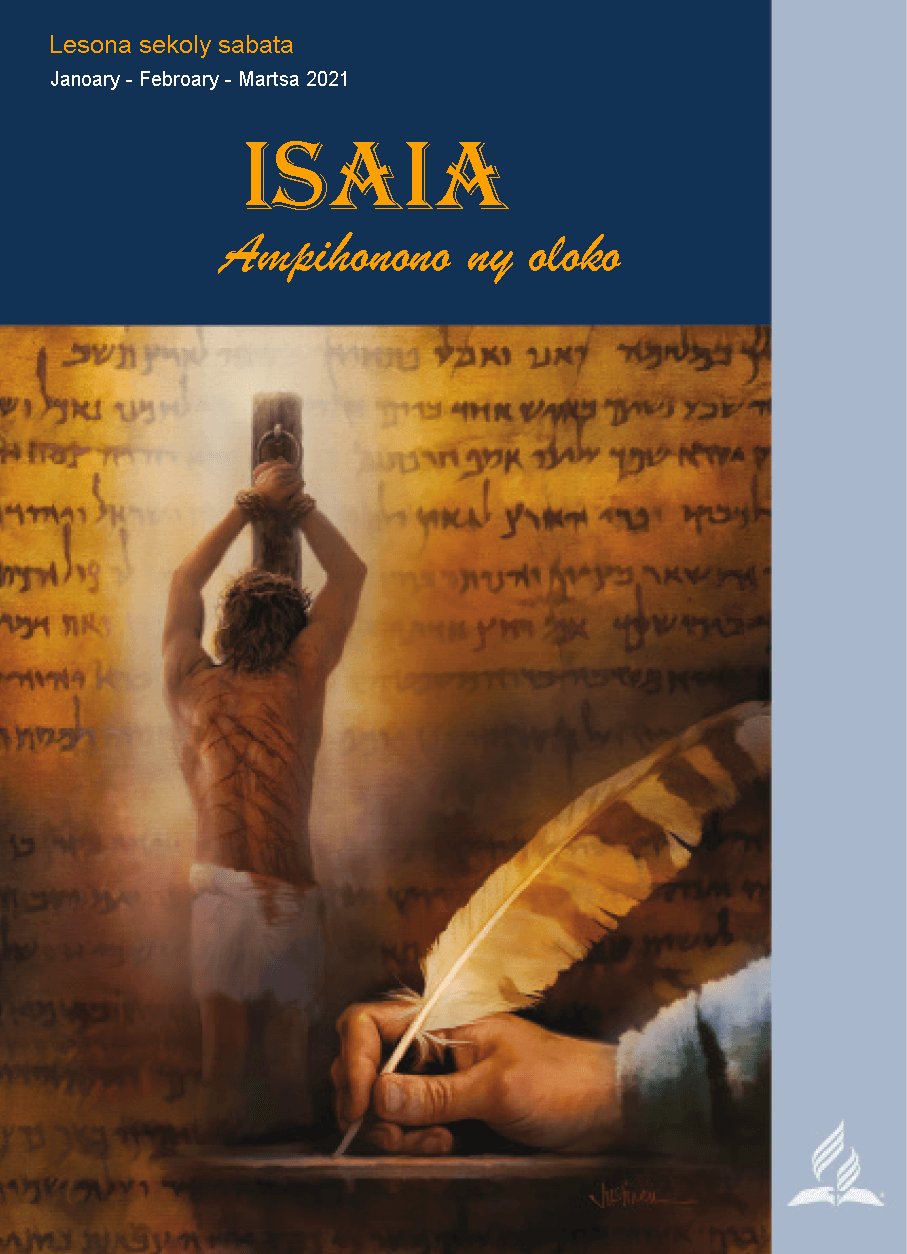
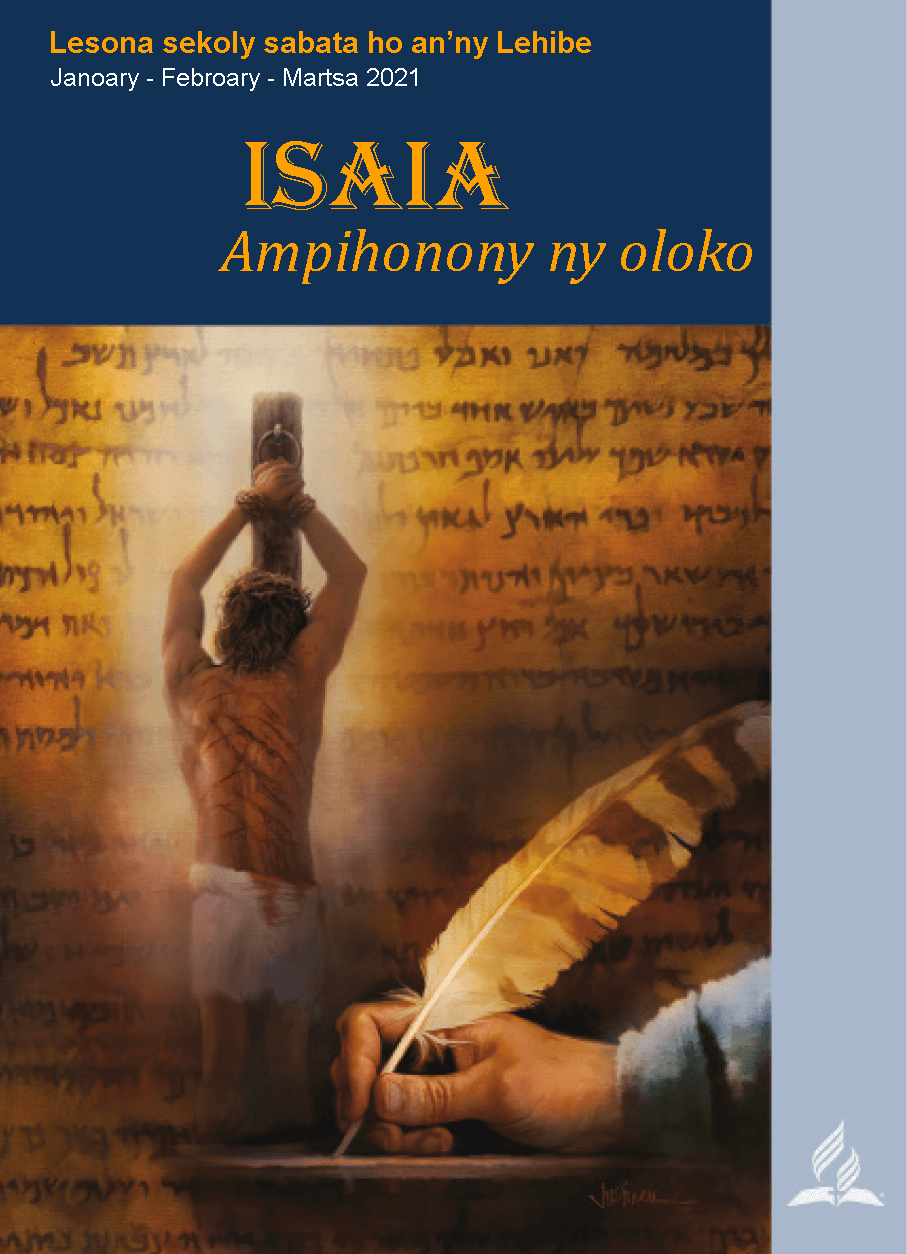
Add files in mg\2021-01\12
Add lesson 12 in mg\2021-01
correct cover in mg\2021-01

Changed region(s): [[0.0617, 0.0311, 0.6483, 0.0933], [0.247, 0.1866, 0.8335, 0.2177]]

diff --git a/src/mg/2021-01/12/03.md b/src/mg/2021-01/12/03.md
@@ -1,7 +1,20 @@
 ---
-title:  Lesona
-date:   15/03/2021
+title: "Iza no havela heloka?(Isa. 59:15-21)"
+date: 15/03/2021
 ---
 
-### <center>Eo am-panatanterahana ity lesona ity izahay.</center>
-<center>Mandrasa kely azafady.</center>
+Ny Isa. 59 dia mampiseho sary manaitra mikasika ity olan'ny fahotana ity. Soa ihany fa mampiseho fanantenana ny amin'ny fanavotana koa ny Baiboly.
+
+Eto am-panombohana dia izao no fanontaniana apetraka voalohany: Firy amintsika no efa nanota? Tsy mampisalasala izay ambaran'ny Baiboly: Isika rehetra dia efa nanota avokoa. Noho izany, ny fanavotana dia tsy mba azo ankinina amin'ny hoe: izay tsy nanota ihany; fa tsy maintsy ny famelan-keloka no fototra iorenany (Jer. 31:34). Miombon-kevitra aminizany i Paoly. Samy efa nanota avokoa izy rehetra (Rôm. 3:9-20, 23); koa dia tsy misy anavahana azy raha ny amin'io lafiny io (Rôm. 3:22). Ireo izay nohamarinina dia lazaina fa marina, noho izy nandray fotsiny flay fanomezana tamin'ny finoana, dia ny fahamarinan'Andriamanitra izay omena amin'ny alalan'ny sorona nataon'i Kristy.
+
+`Vakio ny Rom. 3:21-24. Inona no ambaran'ireo andininy ireo mikasika ny fomba amonjena antsika? Inona ny fanantenana omen'izany antsika amin'ny fitsarana?`
+
+Mihevitra ny ankamaroan'ny olona fa ny foto-dresaka ao amin'ny fitsarana dia ny hoe: Iza no nanota? Kanefa fanontaniana tsy mila apetraka akory izany satria samy efa nanota ny olona tsirairay. Ity kosa no tena fanontaniana: Iza no havela heloka? Marina Andriamanitra rehefa manamarina « izay manana finoana an'i Jesosy » (Rôm. 3:26). Ny fanapahan-kevitra amin'ny fitsarana dia mifototra amin'ny hoe: Iza no nandray famelan-keloka ary mbola manohy mandray izany famelan-keloka izany amin'ny alalan'ny finoana an'i Jesôsy?
+
+Marina ihany fa tsaraina amin'ny alalan'ny asa ataontsikaisika, kanefa tsy ao anatinIzany ny hevitra hoe mahavonjy antsika ny asa. Raha izany mantsy dia foana ny finoana (Rom. 4:14). Ny asantsika kosa anefa no mampiseho raha tena novonjena tokoa isika na tsia (Jak.2:18).
+
+`Nahoana no tsy mahavonjy antsika ny asa na ankehitriny na amin'ny fitsarana? Jereo ny Rom. 3:20, 23.`
+
+Tsy mahavotra na iza na iza intsony na ny asa tsara, na ny fankatoavana ny lalana, fa efa tara loatra izany. Ny zava-kendren'ny lalana ao anatin'ny tontolo iray feno fahotana dia tsy ny hamonjy tsy akory fa ny hampiseho ny ota. Fa « ny finoana izay miasa amin'ny fitiavana » (Gal. 5:6), dia ilay fitiavana izay nampidinin'ny Fanahin'Andriamanitra ho ao am-po (Rom. 5:5), no mampiseho fa manana ny finoana velona an'i Jesôsy ny olona iray (Jereo koa ny Jak. 2:26).
+
+Ny asa dia fanehoana ety ivelany; fisehoan'ny finoana mahavonjy ananan'ny olombelona izany. Araka izany ary, ny fanandramana Kristianina marina dia fanandramana izay anehoano ny finoana amin'ny alalan'ny fanoloran-tena ho an'ny Tompo isan'andro ka miseho amin'ny fankatoavana ny Ialàna izany. Eo amin'ny fitsarana dia ampiasain'Andriamanitra ny asa ho porofo eo anatrehan'ireo voariny izay tsy mba afaka mamaly ny ao an'eritreritra tahaka Azy. Kanefa ho an'ny olona izay niova fo, ny asany taorian'ny fiovam-pony, rehefa nampaherezin'i Kristy sy ny Fanahy Masina izy, dia manan-danja tokoa eo amin'ny fitsarana. Ilay fiainana feno ota talohan'ny niovana fo dia efa voasasa sy voafafa tamin'ny alalan'ny ran'ny Zanak'ondry (Jereo ny Rom. 6).

diff --git a/src/mg/2021-01/12/06.md b/src/mg/2021-01/12/06.md
@@ -1,7 +1,17 @@
 ---
-title:  Lesona
+title:  "Andro famalian'Andriamanitsika (Isa. 61:2)"
 date:   18/03/2021
 ---
 
-### <center>Eo am-panatanterahana ity lesona ity izahay.</center>
-<center>Mandrasa kely azafady.</center>
+`Ao anatin'ireo vaovao mahafaly rehetra ireo, nahoana ny Mesia, araka izay hifa ao amin'ny Isa. 61, no mitory ny famalian'Andriamanitra? Oviana io faminaniana io no tanteraka?`
+
+Fony Izy tao Nazareta dia namaky ny Isa. 61 i Jesôsy , Ilay Mesia, mandra-pahatonga amin'ilay hoe: « Hitory taona ankasitrahan'i Jehovah » (Isa. 61:2; Lio 4:19). Dia niato Izy ka nanao hoe: « Andro-any no efa tanteraka eto anatrehanareo izany soratra izany » (Lio. 4:21). Koa ninian'i Jesôsy nodinganina manokana mihitsy ny famakiana ny andalana manaraka ao amin'io andininy io ihany manao hoe: « andro famalian'Andriamanitsika » - Isa. 61:2. Raha vao nanomboka ny asa fitoriany teny soa mahafaly ho an'ny malahelo, sy fandefasana ny mpifatotra ho afaka amin'ny famatoran'i Satana dia tsy mbola tonga kosa ny andro famaliana. Ao amin'ny Mat. 24 (ampitahao amin'ny Mar. 13; Lio. 21), dia nilaza mialoha tamin'ny mpianany Izy fa ny fitsaran'Andriamanitra dia mbola amin'ny hoavy.
+Ao amin'ny Isa. 61 tokoa mantsy ny andro farnalian'i Jehtivah, ilay « andron'i Jehovah, izay sady lehibe no mahatsiravina » (Joe. 3:4), dia ho tonga rehefa hiverina indray i Kristy hanafaka ny planeta Tany amin'ny tsy fahamarinana, amin'ny alalan'ny fandreseny ireo fahavalony sy ny fanafahany ireo vahoaka sisa ampahoriana (Apak. 19; ampitahao amin'ny Dan. 2:44,45). Koa raha nitory ny fanombohan'ny "taona ankasitrahan'i Jehôvah" izany i Kristy, dia amin'ny fiaviany fanindroany no ho faratampon'ny fahatanterahanIzany.
+
+`Ahoana no ampifandraisanao ny maha-fitiavana an'Andriamanitra amin'ny nnaha-Andriamanitry ny famaliana Azy koa? Tsy mety hiaraka ve ireo hevitra ireo? Araka ny fahazoanao azy, mbola fisehoan'io fitiavana io ihany ve ny famaliany? Raha eny, amin'ny fomba ahoana? Hazavao.`
+
+Na dia niteny tamintsika aza i Jesôsy  mba hanolotra koa ny takolatsika anankiray (Mat. 5:39), dia milaza mazava koa Izy any amin'ny andininy hafa fa hotanterahina tokoa ny fitsarana sy ny famaliana (Mat. 8:12). Na dia manambara aza i Paoly hoe: « Aza mamaly ratsy ny ratsy » (1 Tes. 5:15), dia lazainy koa fa rehefa hiseho avy any an-danitra ny Tompo, miaraka amin'ny afo midedadeda, dia « hamaly izay tsy mahalala an'Andriamanitra » Izy (2 Tes. 1:8).
+
+Mazava loatra, ny maha-samy hafa azy dia izao: amin'ny maha-Andriamanitra feno fahendrena sy famindrampo tsy manam-petra Azy, dia ara-drariny tanteraka no hanatanterahany ny fitsarana sy ny famaliana. Ny fitsarana sy ny famalian'olombelona dia miaraka amin'ireo kilema sy fahalemena ary tsy fahatanterahana amin'ny maha-olombelona azy. Fa ny fitsaran'Andriamanitra kosa dia tsy isalasalana fa tsy hisy ireo tsy fahatanterahana ireo velively.
+
+`Iza amin'ireto toe-javatra ireto no mety hahatonga anao haniry ny hamaliana ny olona iray noho ny ratsy nataony? (1) Olona iray nandratra olona iray hafa tsy tianao, sa (2) olona iray nandratra ny namanao tianao tokoa? Ahoana no anampian'izany anao hahatakatra tsara kokoa ny fifandraisana misy eo amin'ny fitiavan'Andriamanitra antsika sy ny fampitandremany ny amin'ny famaliana?`

diff --git a/src/mg/2021-01/12/04.md b/src/mg/2021-01/12/04.md
@@ -1,7 +1,22 @@
 ---
-title:  Lesona
-date:   16/03/2021
+title: "Antso ho an'izao tontolo izao (Isa. 60:1,2)"
+date: 16/03/2021
 ---
 
-### <center>Eo am-panatanterahana ity lesona ity izahay.</center>
-<center>Mandrasa kely azafady.</center>
+`Inona no resahina ao amin'ny Isa. 60:1,2 ? Foto-kevitra Inona no hitanao eto, izay hita manerana ny Baiboly manontolo? Fanantenana Inona no atolony?`
+
+Mamariparitra ny fanafahan'Andriamanitra ny olony aorian'ny fahababoana ireo andininy roa ireo, izay aseho amin'ny sary an'ohatra ahitana an'Andriamanitra mamorona fahazavana avy ao anatin'ny haizina ka anondroany sahady ny fahatanterahan'ny famonjena faratampony amin'ny alalan'i Kristy.
+
+`Ao amin'ny and. 3, fahazavan'iza no anatonan'ireo firenena sy mpanjaka?`
+
+Arnin'ny teny hebreo, io olona io dia tokana sady vehivavy (jereo koa ny Isa. 60:1,2). Tsy maintsy ho i "Ziona" io voalaza io, izay nomena endrika vehivavy, voaresaka any amin'ny faramparan'ny toko teo aloha (Isa. 59:20). Koa ny olona rehetra eto ambonin'ny tany izany, izay rakotra haizina, dia hankany Ziona. Ho voasinton'ny fahazavan'ny voninahitr'Andriamanitra izay miposaka eo amin'i Ziona izy ireo (Isa. 60:2). « Asaina miditra ao amin'ilay fahazavana izay azy i Ziona, ary avy eo hijery sy hanao zavatra ho an'ireo firenena izay avy manatona io fahazavana io. » - J. Alec Motyer, The Prophecy of Isaiah: An Introduction and Commentary, t. 494. Mariho fa na dia i Jerosalema ihany aza no Ziona, dia olona no tena ifantohan'ny resaka eto fa tsy dia ny toerana na ny faritry ny tanana loatra.
+
+Ny Isa. 60 sisa rehetra dia famoaboasana ilay lohahevitra nampidirin'ny and. 1-3. Voasarika ho eo amin'i Jerosalema, izay voatahy manokana noho ny fanatrehan'Andriamanitra be voninahitra, ny olona rehetra eran'izao tontolo izao.
+
+`Manao ahoana io faminaniana io raha mitaha amin'ilay teny fikasan'ny fanekena natao famin'i Abrahama? Gen. 12:2,3. Tsy zavatra iray ihany ve no ambaran'ireo?`
+
+Izao tontolo izao no nokendren'Andriamanitra raha nifidy Abrahama sy ny taranany Izy: ho voatahy avokoa ny fianakaviana rehetra eto ambonin'ny tany amin'ny alalan'i Abrahama (Gen. 12:3; Gen. 18:18; Gen. 22:18). Ny fanekena nataon'Andriamanitra tamin'i Abrahama ary izany dia natao indrindra ho fanekena amin'ny taranak'olombelona rehetra amin'ny alalan'i Abrahama. Izy sy ny taranany no nataon'Andriamanitra fantsona ho fanambarana ny hafany amin'izao tontolo izao.
+
+Nikatsaka izay hamerenana ny olony ho amin'ilay anjarany fahizay, mahafoaka izao tontolo izao, i Isaia. Amin'ny maha-solontenan'llay Andriamanitra marina azy ireo dia tsy tompon'andraikitra ny amin'ny tenany fotsiny izy fa tompon'andraikitra ny amin'izao tontolo izao koa. Natao handray tsara ireo vahiny izay mikatsaka an'Andriamanitra izy ireo (jereo koa ny Isa. 56:3-8), fa ny tempoliny dia « hatao hoe trano fivavahana ho an'ny firenena rehetra » -Isa. 56:7.
+
+`Ao anatin'io tontolon-kevitra io, ahoana no fahazoanao ny andraikitry ny Fiangonana Advantista Mitandrina ny Andro Fahafito, na ny marimarina kokoa, ny andraikitrao manokana ao anatin'izany fiangonana izany?`

diff --git a/src/mg/2021-01/12/05.md b/src/mg/2021-01/12/05.md
@@ -1,7 +1,14 @@
 ---
-title:  Lesona
-date:   17/03/2021
+title: "Taona ankasitrahan'i Jehôvah (Isa. 61:2)"
+date: 17/03/2021
 ---
 
-### <center>Eo am-panatanterahana ity lesona ity izahay.</center>
-<center>Mandrasa kely azafady.</center>
+`Iza no miteny ao amin'ny Isa. 61:1?`
+
+Ny Fanahin'Andriamanitra dia ao amin'ity olona voahosotra ity, izay midika fa izy dia Mesia, na Izy no Mesia izay natao « Hitory teny soa mahafaly amin'ny mpandefitra, sy hahasitrana ny torotoro fo, ary hitory fanafahana amin'ny babo » (Isa. 61:1). Mampahatsiahy an'iza izany? Ampitahao amin'ny Isa. 42:1-7, izay milazalaza ny amin'llay Mpanompon'Andriamanitra amin'ny teny toy izany koa.
+
+Miresaka "taona ankasitrahan'i Jehovah" ny Isa. 61:2. Ilay Mesia izay voahosotra ho mpanjaka taranak'i Davida, sady Mpanafaka dia nitory taona manokana izay ankasitrahan'Andriamanitra rehefa nitory fanafahana. Ampitahao amin'ny Lev. 25:10, izay andidian'Andriamanitra ny Isiraelita hitory fahafahana amin'ny taona masina fahadimampolo: "Jobily ho anareo izany, ka samia mody any amin'ny taninareo avy hianareo sy any amin'ny mpianakavinareo avy". Midika izany fa ireo olona izay voatery nivarotra ny tanindrazany na tonga andevo mba tsy ho faty ao anatin'ny fotoan-tsarotra (and. 25-55) dia hitaky indray ny tanin'izy ireo sy ny fahafahany. Nanomboka tamin'ny fitsofana anjomara tamin'ny Andro Fanavotana mantsy ny taon-jobily (and. 9), efa noresahintsika izany tany aloha, mifandraika amin'ny Isa. 58.
+
+Na dia karazana taon-jobily aza ilay "taona ankasitrahan'i Jehovah" ao amin'ny Isa. 61:2, dia tsy fitandremana na fanarahana izay voalaza ao amin'ny Lev. 25 fotsiny tsy akory izany. Ny Mesia, ny Mpanjaka no mitory izany rehefa maneho ny Tenany amin'ny alalan'ny asa fanafahana sy fampodiana amin'ny laoniny Izy. Mitovitovy amin'izay nataon'ireo mpanjaka mesôpôtamianina fahiny izany, izay nanao asa soa ho an'ny mpiara-belona sy nitory famotsorana trosa nandritra ireo taona voalohandohany nanjakan'izy ireo. Mihoatra lavitra noho izay voafaritra ao amin'ny lalàn'ny Lev. 25 ny asan'ny Mesia. Tsy mitory yanafahana amin'ny babo" fotsiny Izy fa manasitrana ny torotoro fo ihany koa, mampionona ny malahelo, ary manatanteraka ny famerenana amin'ny laoniny ny fiainan'izy ireo (Isa. 61:1-11). Fanampin'izany, ankoatra ny "taona ankasitrahan'i Jehôvah" dia milaza "andro famalian'Andriamanitra" koa Izy (and. 2).
+
+`Oviana no nahatanteraka io faminanian'i Isaia io? Lio. 4:16-21. Ahoana no nanatanterahan'ny asan'i Jesôsy  azy? Apetraho amin'ny tenanao koa izao fanontaniana manan-danja izao: marina fa tsy i Jesôsy  isika, saingy natao ho solontenany eto amin'izao tontolo izao kosa. Inona no ataon'ny Mesia, araka ny voalaza ao amin'ny Isa. 61:1-3, izay tokony hataontsika koa na voafetra aza ny fahaizantsika sy ny fahafaha-manaontsika? Mitanisa fomba tsotra vitsivitsy ahazoantsika manatanteraka ireo zavatra ireo`

diff --git a/src/mg/2021-01/12/07.md b/src/mg/2021-01/12/07.md
@@ -1,7 +1,17 @@
 ---
-title:  Lesona
+title: Fianarana fanampiny
 date:   19/03/2021
 ---
 
-### <center>Eo am-panatanterahana ity lesona ity izahay.</center>
-<center>Mandrasa kely azafady.</center>
+**Vakio ny PM, tt. 387-390; sy IFM, toko 24.**
+
+« Nijoro teo anoloan'ny vahoaka, toy ny mpanazava velona ireo faminaniana mikasika ny Tenany, i Jesôsy. Nohazavainy ny teny vao novakiny, dia ny amin'ny Mesia izay hanampy ny sahirana, hanafaka ny mpifatotra, hanasitrana ny tra-pahoriana, hamerina ny jamba hahita indray, ary hanambara ny fahazavan'ny fahamarinana amin'izao tontolo izao. Nampangitakitaka ny mpihaino tamin'ny hery izay tsy mbola tsapany mihitsy teo aloha ny fihetsiny latsaka lalina tao am pony sy ny maha-zava-dehibe sy mahagaga ny tenany. Nandrava ny fefy rehetra ny fisamontan'ny hery miasa mangina avy amin'Andriamanitra; tahaka an'i Mosesy nibanjina Ilay tsy hita izy ireo. Raha nohetsehin'ny Fanahy Masina ny fony, dia namaly tamin'ny `Amena' mafana izy ka nidera ny Tompo. » - IFM, t. 238.
+
+« Tonga ny andro famalian'Andriamanitra - dia ny andro firehetan'ny fahatezerany. Iza no hahajanona amin'ny andro iaviany? Nanamafy ny fony tsy hidiran'ny Fanahin'Andriamanitra ny olona, fa hanagorobaka izay tsy voagorobaky ny tsipikan'ny fandresen-dahatra kosa ny tsipikan'ny fahatezerany. Tsy hijoro hifandahatra mandrakariva amin'ny mpanota Andriamanitra. Mbola hiaro ny mpandika lalàna ihany ve ireo mpiandry sandoka amin'izay andro izay? Moa ve ho afa-tsiny izay nandeha nanaraka ny besinimaro tamin'ny lalan'ny tsy fankatoavana? Moa ve ny fankamamian'ny vahoaka sy ny fahamaroan'isa no hahatonga ny olona ho tsy manan-tsiny? Ireo no fanontaniana tokony hosaintsainin'ireo mpanao tsinontsinona sy tsy miraika, sy tokony hapetrany amin'ny tenany koa. » - FW, t. 33
+
+**FANONTANIANA HIFANAKALOZAN-KEVITRA:**
+
+Nisy pasitora advantista mitandrina ny andro fahafito iray nanambara fa ny olana voalohany indrindra eo amin'ny asa fanompoana dia ny fihatakatahan'ny mambran'ny fiangonana tsy te hampiditra ny hafa ho anisan'izy ireo. Fomba ahoana no hitondran'ny "Kristianina" fitiavana sy fanantenana ary ny vaovao mahafalin'ny fanjakan'i Kristy ho an'izao tontolo izao, mba hahafahan'ny hafa manana tombontsoa ho voavonjy mialoha ny fahatongavan'ny farany (Mat. 24:14), raha toa ka tsy tiany (tian'ny "Kristianina") akory ny hidiran'ireo olona tsy mitovy fomba aminy ho ao am-piangonany?
+
+**Famintinana:** 
+Diovin'Andriamanitra ny fiarahamonina iray amin'ny alalan' ny fanesorany ireo mpikomy sy ny fampodiany ireo sisa izay miala amin'ireo fahotana nampisaraka azy ireo Taminy. Noho ny fitahiana avy amin'ny fanatrehan'Andriamanitra, dia voasarika ho eo amin'Andriamanitra sy ny olony ireo izay avy any amin'ny firenen-kafa, mba hahafahan'izy ireo misitraka koa ilay fotoana ankasitrahan'i Jehôvah izay torin'ny Mesia sy ambarany.

diff --git a/src/mg/2021-01/12/02.md b/src/mg/2021-01/12/02.md
@@ -1,7 +1,18 @@
 ---
-title:  Lesona
-date:   14/03/2021
+title: "Ireo vokatry ny fahotana (Isa. 59)"
+date: 14/03/2021
 ---
 
-### <center>Eo am-panatanterahana ity lesona ity izahay.</center>
-<center>Mandrasa kely azafady.</center>
+Ao amin'ny Isa. 58:3 ny olona dia manontany an'Andriamanitra hoe: « Nahoana izahay no mifady, (...) nefa tsy hitanao? Ary nahoana izahay no mampahory ny tenanay, nefa tsy ahoanao? »
+
+Etsy andaniny koa, ny Isa. 59:1 dia mametraka fanontaniana toy ny manao hoe: "Nahoana no mivavaka izahay mba hamonjen'ny sandrin'i Jehôvah anay, kanefa tsy valiany? Nahoana no miantsoantso Azy izahay kanefa tsy reny?" Dia mamaly i Isaia fa afaka mamonjy sy mandre Andriamanitra (and. 1). Koa zavatra hafa mihitsy araka izany no tsy namalian'Andriamanitra.
+
+`Vakio ny Isa. 59:2. Inona ny hafatra omena eto, izay mamaly ny fanontaniana ao amin'ny andininy voalohany?`
+
+Safidin'Andriamanitra ny « tsy hihaino » ny olony, tsy hoe izay no tiany, fa satria « ny helokareo no efitra mampisaraka anareo amin'Anariamanitrareo » (Isa. 59:2). Ity dia anisan'ireo fanambarana mazava indrindra ao amin'ny Baiboly mikasika ny vokatry ny fahotana eo amin'ny fifandraisan'Andriamanitra sy ny olombelona. Mamelabelatra io lohahevitra io i Isaia manerana ny toko 59, dia araka izay hita manerana ny tantaran'ny olombelona koa: afaka manimba ny fifandraisantsika amin'i Jehôvah ny fahotana, ary izany no hitarika ho amin'ny fahaverezana mandrakizay - ka tsy hoe ny ota no mahatonga an'Andriamanitra hanalavitra antsika, fa isika no tarihiny hanalavitra an'Andriamanitra.
+
+`Vakio ny Gen. 3:8. Ahoana no anehoan'io ny foto-kevitra voalaza ao amin'ny paragrafy etsy ambony?`
+
+Fandavana an'Andriamanitra, voalohany indrindra, ny fahotana. Fialana Aminy izany. Tsy mamela mahazo ny fahotana, tsy vitan'ny eo miala amin'Andriamanitra fotsiny ilay mpanota, fa vao mainka miha-manalavitra an'Andriamanitra bebe kokoa hatrany. Mampisaraka antsika amin'Andriamanitra ny fahotana, tsy hoe satria tsy hikatsaka ny mpanota Andriamanitra (fa ny Baiboly manontolo mihitsy aza dia saika tsy manao afa-tsy ny mitantara fa Andriamanitra dia mikatsaka ny hamonjy ny mpanota), fa satria ny fahotana mihitsy no mahatonga antsika handa ny famelaran'Andriamanitra ny sandriny ho antsika. Izany no maha-zava-dehibe ny tsy handeferana ny hisian'ny fahotana eo amin'ny fiainantsika.
+
+`Tamin'ny fomba ahoana no nahatsapanao tokoa teo amin'ny fiainanao fa mampisaraka amin'Andriamanitra ny fahotana? lnona, araka ny fanandramanao, no hany vahaolana?`

diff --git a/src/mg/2021-01/12/01.md b/src/mg/2021-01/12/01.md
@@ -1,7 +1,19 @@
 ---
-title:  Lesona
-date:   13/03/2021
+title: "Ilay irin'ny firenena"
+date: 13/03/2021
 ---
 
-### <center>Eo am-panatanterahana ity lesona ity izahay.</center>
-<center>Mandrasa kely azafady.</center>
+### Hodinihina mandritra ny herinandro
+Isa. 59; Isa. 59:15-21; Isa. 60:1,2; Isa.61; Isa. 61:2.
+
+> <p>Tsianjery</p> 
+> « Ary ny firenena manatona ny fahazavanao, ary ny mpanjaka mankeo amin'ny famirapiratan'ny fiposahanao » (Isa. 60:3).
+
+### Fampidirana
+
+« Tsy maintsy mianatra ao amin'ny sekolin'i Kristy isika. Tsy mety ho azontsika na iray amin'ireo fitahiana ao amin'ny fanekem-pahasoavana aza, raha tsy noho ny fahamarinany. Efa ela no naniriantsika sy niezahantsika hahazo ireo fitahiana ireo saingy tsy azontsika izany satria efa masaka tao an-tsaintsika ny hoe: 'afaka manao zavatra aho mba hahatonga ahy ho mendrika ny fitahiana'. Tsy nijery afa-tsy ny tenantsika isika, tsy nino fa i Jesôsy no Ilay Mpamonjy velona. Tsy azontsika atao ny mihevitra fa hamonjy antsika ny fahatsarana sy ny fahamendrehantsika; ny fahasoavan'i Kristy irery ihany no fanantenana sy famonjena ho antsika. Manome toky ny Tompo amin'ny alalan'ny mpaminaniny hoe: « Aoka ny ratsy fanahy hahafoy ny làlany ary ny tsy marina hahafoy ny heviny; Ary aoka hiverina ho amin'i Jehôvah ireny, fa hamindra fo aminy Izy, eny, ho amin'Andriamanitsika, fa hamela heloka dia hamela heloka tokoa Izy »(Isa. 55:7). Mila mino tanteraka ny teny fikasan'Andriamanitra isika, sy manaiky fa tsy fihetseham-po ny finoana. Rehefa matoky an'Andriamanitra tanteraka isika, rehefa miantehitra amin'ny fahamendrehan'i Jesôsy amin'ny maha-Mpamonjy mpamela heloka Azy, dia handray ny fanampiana rehetra araka izay ilaintsika. » FW, t. 36.
+
+Afaka handinika misimisy kokoa ny amin'izany fahamarinana lehibe izany isika amin'ity herinandro ity, araka izay voambara ao amin'ny bokin'i Isaia.
+
+_*Famerenana ny lesony ny sabata 13 Marsa._
+
